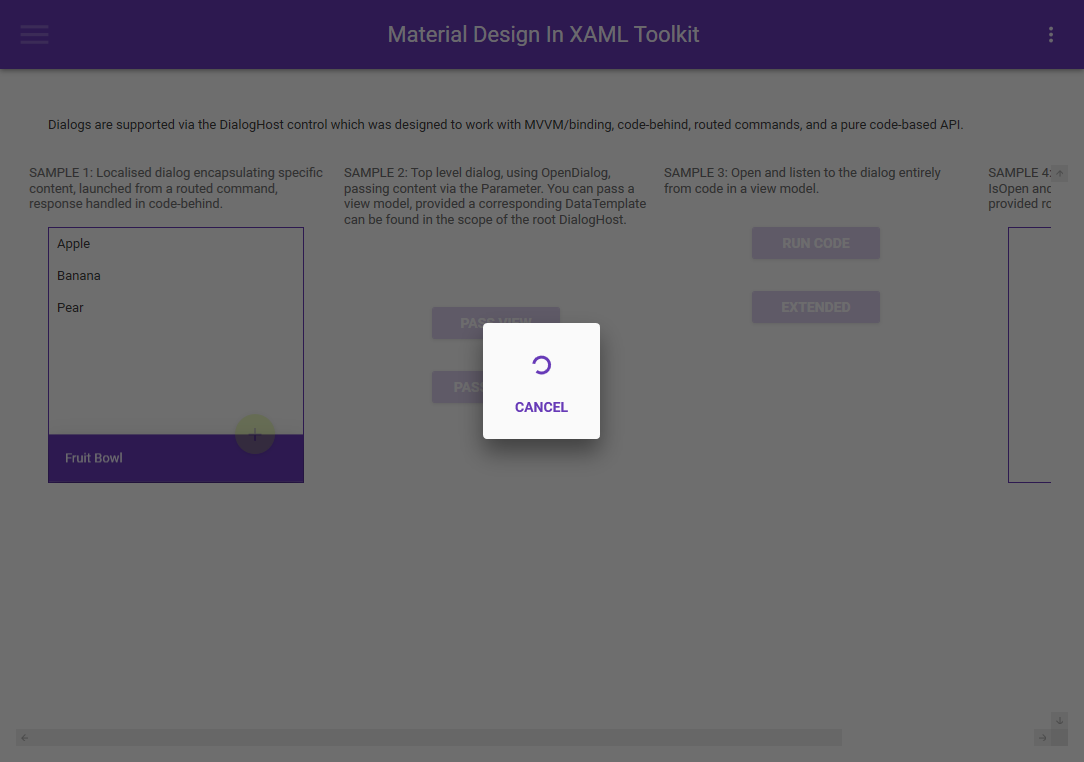
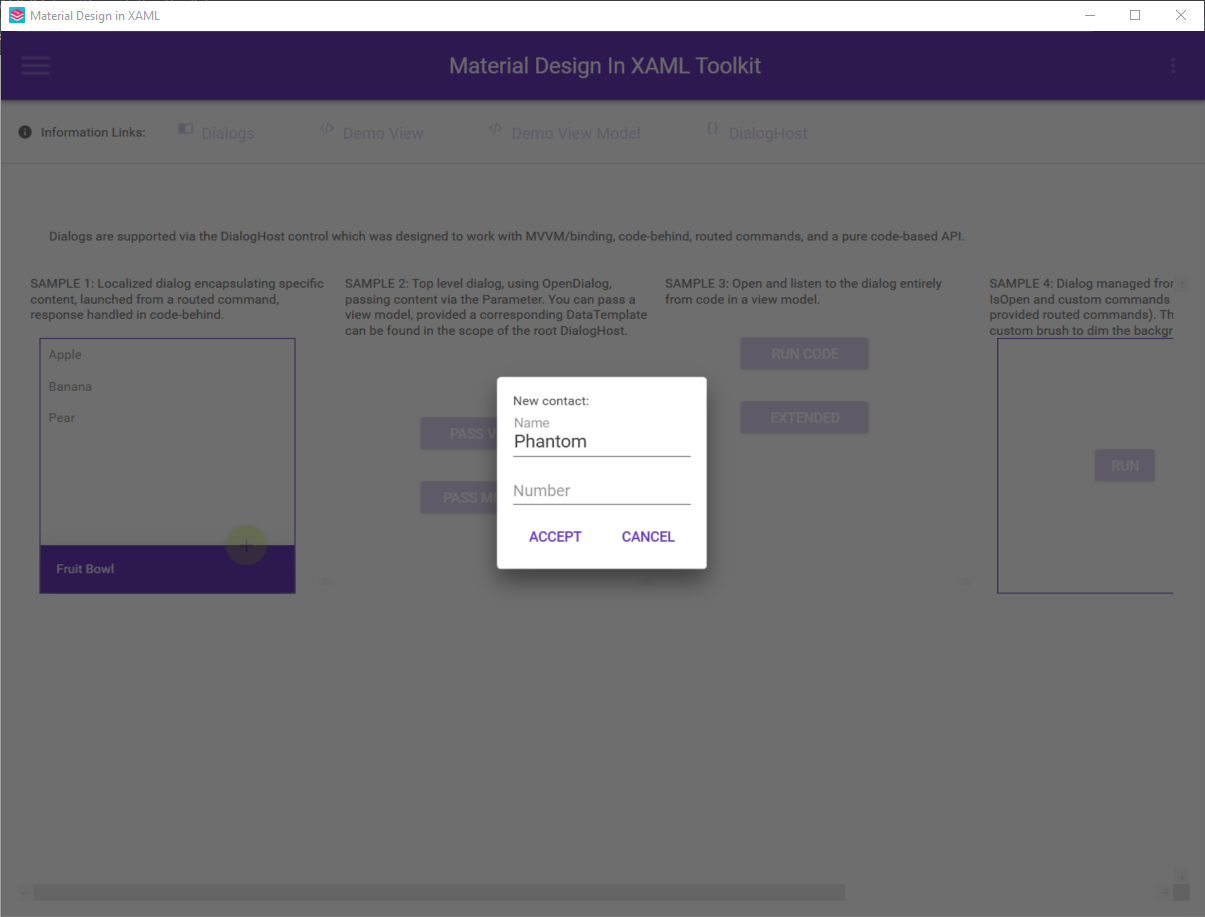
Update demo app screenshots (v3.0.0)

diff --git a/README.md b/README.md
@@ -8,69 +8,74 @@ Comprehensive and easy to use Material Design theme and control library for the 
 
 # ![Alt text](web/images/MD4XAML28.png "Summary") Summary
 
- * Material Design styles for all major WPF Framework controls
- * Additional controls to support the theme, including Multi Action Button, Cards, Dialogs, Clock
- * Easy configuration of palette (at design _and_ runtime), according to [Google's guidelines](https://material.io/design/)
- * Full [Material Design Icons](https://materialdesignicons.com/) icon pack
- * Easy transition effects
- * Compatible with [Dragablz](https://github.com/ButchersBoy/Dragablz), [MahApps](https://github.com/MahApps/MahApps.Metro)
- * Demo applications included in the source project
+- Material Design styles for all major WPF Framework controls
+- Additional controls to support the theme, including Multi Action Button, Cards, Dialogs, Clock
+- Easy configuration of palette (at design _and_ runtime), according to [Google's guidelines](https://material.io/design/)
+- Full [Material Design Icons](https://materialdesignicons.com/) icon pack
+- Easy transition effects
+- Compatible with [Dragablz](https://github.com/ButchersBoy/Dragablz), [MahApps](https://github.com/MahApps/MahApps.Metro)
+- Demo applications included in the source project
 
 [![Backers on Open Collective](https://opencollective.com/materialdesigninxaml/backers/badge.svg)](#backers) [![Sponsors on Open Collective](https://opencollective.com/materialdesigninxaml/sponsors/badge.svg)](#sponsors) [![Gitter](https://img.shields.io/badge/Gitter-Join%20Chat,%20Get%20Help,%20Say%20Hello!-green.svg?style=flat-square)](https://gitter.im/ButchersBoy/MaterialDesignInXamlToolkit)
 [![Build Status](https://dev.azure.com/MaterialDesignInXAML/MaterialDesignInXaml/_apis/build/status/MaterialDesignInXAML.MaterialDesignInXamlToolkit?branchName=master)](https://dev.azure.com/MaterialDesignInXAML/MaterialDesignInXaml/_build/latest?definitionId=2&branchName=master)
 [![NuGet-Themes](https://img.shields.io/nuget/v/MaterialDesignThemes.svg?label=NuGet:%20Themes&style=flat-square)](https://www.nuget.org/packages/MaterialDesignThemes/)
-[![NuGet-Themes](https://img.shields.io/nuget/vpre/MaterialDesignThemes.svg?label=NuGet:%20Themes%20(CI)&style=flat-square)](https://www.nuget.org/packages/MaterialDesignThemes/)
+[![NuGet-Themes](<https://img.shields.io/nuget/vpre/MaterialDesignThemes.svg?label=NuGet:%20Themes%20(CI)&style=flat-square>)](https://www.nuget.org/packages/MaterialDesignThemes/)
 [![NuGet-Themes](https://img.shields.io/nuget/vpre/MaterialDesignColors.svg?label=NuGet:%20Colours&style=flat-square)](https://www.nuget.org/packages/MaterialDesignColors/)
 [![Issues](https://img.shields.io/github/issues/MaterialDesignInXAML/MaterialDesignInXamlToolkit.svg?style=flat-square)](https://github.com/MaterialDesignInXAML/MaterialDesignInXamlToolkit/issues)
 [![Twitter](https://img.shields.io/badge/twitter-%40james__willock-55acee.svg?style=flat-square)](https://twitter.com/James_Willock)
- 
+
 # ![Alt text](web/images/MD4XAML28.png "How Can I Use The Themes?") Getting Started
 
-* Checkout the [Super Quick Start](https://github.com/MaterialDesignInXAML/MaterialDesignInXamlToolkit/wiki/Super-Quick-Start)
-* Or, the more comprehensive [Starting Guide](https://github.com/MaterialDesignInXAML/MaterialDesignInXamlToolkit/wiki/Getting-Started) guide.
-* Or, watch the [Material Design In XAML Toolkit An Introduction](https://www.youtube.com/watch?v=-n5yeEOsbCk) video.
+- Checkout the [Super Quick Start](https://github.com/MaterialDesignInXAML/MaterialDesignInXamlToolkit/wiki/Super-Quick-Start)
+- Or, the more comprehensive [Starting Guide](https://github.com/MaterialDesignInXAML/MaterialDesignInXamlToolkit/wiki/Getting-Started) guide.
+- Or, watch the [Material Design In XAML Toolkit An Introduction](https://www.youtube.com/watch?v=-n5yeEOsbCk) video.
 
 # ![Alt text](web/images/MD4XAML28.png "In Action") See It In Action
 
-* Download a pre-compiled demo from the [releases](https://github.com/ButchersBoy/MaterialDesignInXamlToolkit/releases) page.
-* Download the source and run the demo ([more information](https://github.com/MaterialDesignInXAML/MaterialDesignInXamlToolkit/wiki/Compiling-From-Source)).
-* Checkout [Keboo/MaterialDesign.Examples](https://github.com/Keboo/MaterialDesignInXaml.Examples)
-* Checkout [doobry](http://materialdesigninxaml.net/doobry).
-* Checkout [F1ix](http://materialdesigninxaml.net/f1ix).
-* Checkout [Motion List](https://github.com/MaterialDesignInXAML/MotionList).
+- Download a pre-compiled demo from the [releases](https://github.com/ButchersBoy/MaterialDesignInXamlToolkit/releases) page.
+- Download the source and run the demo ([more information](https://github.com/MaterialDesignInXAML/MaterialDesignInXamlToolkit/wiki/Compiling-From-Source)).
+- Checkout [Keboo/MaterialDesign.Examples](https://github.com/Keboo/MaterialDesignInXaml.Examples)
+- Checkout [doobry](http://materialdesigninxaml.net/doobry).
+- Checkout [F1ix](http://materialdesigninxaml.net/f1ix).
+- Checkout [Motion List](https://github.com/MaterialDesignInXAML/MotionList).
 
 # ![Alt text](web/images/MD4XAML28.png "How Can I Use The Themes?") Source Code
-To load the source project you will need Visual Studio 2019.  Don't worry if you have an earlier version, you can still use the compiled assemblies from NuGet (``` Install-Package MaterialDesignThemes ```). There are two demo projects in the solution, restore the necessary NuGet packages and correct the programming syntax that is not compatible with C# versions lower than C# 8.0 (```currently used in Visual Studio 2019```). Then, you should be able to fire both of these projects up.  One is a "pure" Material Design project, the other illustrates how to combine with Dragablz & MahApps.
+
+To load the source project you will need Visual Studio 2019. Don't worry if you have an earlier version, you can still use the compiled assemblies from NuGet (`Install-Package MaterialDesignThemes`). There are two demo projects in the solution, restore the necessary NuGet packages and correct the programming syntax that is not compatible with C# versions lower than C# 8.0 (`currently used in Visual Studio 2019`). Then, you should be able to fire both of these projects up. One is a "pure" Material Design project, the other illustrates how to combine with Dragablz & MahApps.
 
 # ![Alt text](web/images/MD4XAML28.png "Contributions") Contribution Guidelines
 
-* Before contributing code read the [Contribution Guidelines](.github/CONTRIBUTING.md)
-  * GitHub issues are for bugs.
-  * For queries, help, and general chat stop by the [Gitter chat room](https://gitter.im/ButchersBoy/MaterialDesignInXamlToolkit).
-  * Stack Overflow tag: [material-design-in-xaml](http://stackoverflow.com/questions/tagged/material-design-in-xaml)
-* Want to say thanks?
-  *  Hit the :star: Star :star: button
-  *  If you'd like to make a very much appreciated financial donation please visit <a href='https://opencollective.com/materialdesigninxaml'>open collective</a>
+- Before contributing code read the [Contribution Guidelines](.github/CONTRIBUTING.md)
+  - GitHub issues are for bugs.
+  - For queries, help, and general chat stop by the [Gitter chat room](https://gitter.im/ButchersBoy/MaterialDesignInXamlToolkit).
+  - Stack Overflow tag: [material-design-in-xaml](http://stackoverflow.com/questions/tagged/material-design-in-xaml)
+- Want to say thanks?
+  - Hit the :star: Star :star: button
+  - If you'd like to make a very much appreciated financial donation please visit <a href='https://opencollective.com/materialdesigninxaml'>open collective</a>
 
 # ![Alt text](web/images/MD4XAML28.png "Mentions") Mentions
 
-* Logo courtesy of GitHub user [Snalty](https://github.com/snalty), and you can see more of him;
- * on his [blog](http://holothere.tumblr.com/)
- * and on [Twitter](https://twitter.com/snalty)
-* Marc Angers - I pulled some of his shadows straight in from this [blog post](http://marcangers.com/material-design-shadows-in-wpf/)
-* Icon pack sourced from [Material Design Icons](https://materialdesignicons.com/)
-* Utilises [ControlzEx](https://github.com/ControlzEx/ControlzEx)
-* Ignace Maes, whose [Material Skin](https://github.com/IgnaceMaes/MaterialSkin) project inspired the original material design theme for [Dragablz](https://github.com/ButchersBoy/Dragablz), which in turn led to me starting this project
-* [Material Design Extensions](https://github.com/spiegelp/MaterialDesignExtensions) is a community repository based on this library that provides additional controls and features.
-* **[Contributors!](https://github.com/ButchersBoy/MaterialDesignInXamlToolkit/graphs/contributors)**  Thanks for the PRs which have helped add some extra polish.  
+- Logo courtesy of GitHub user [Snalty](https://github.com/snalty), and you can see more of him;
+- on his [blog](http://holothere.tumblr.com/)
+- and on [Twitter](https://twitter.com/snalty)
+- Marc Angers - I pulled some of his shadows straight in from this [blog post](http://marcangers.com/material-design-shadows-in-wpf/)
+- Icon pack sourced from [Material Design Icons](https://materialdesignicons.com/)
+- Utilises [ControlzEx](https://github.com/ControlzEx/ControlzEx)
+- Ignace Maes, whose [Material Skin](https://github.com/IgnaceMaes/MaterialSkin) project inspired the original material design theme for [Dragablz](https://github.com/ButchersBoy/Dragablz), which in turn led to me starting this project
+- [Material Design Extensions](https://github.com/spiegelp/MaterialDesignExtensions) is a community repository based on this library that provides additional controls and features.
+- **[Contributors!](https://github.com/ButchersBoy/MaterialDesignInXamlToolkit/graphs/contributors)** Thanks for the PRs which have helped add some extra polish.
 
 # <a name="Screenshots"></a>![Alt text](web/images/MD4XAML28.png "Screenshots") Screenshots
 
 ![Alt text](web/images/screen-buttons.png "Buttons")
 
+![Alt text](web/images/screen-toggles.png "Toggles")
+
 ![Alt text](web/images/screen-fields.png "Fields")
 
 ![Alt text](web/images/screen-palette.png "Palette")
+
+![Alt text](web/images/screen-colortools.png "Color Tools")
 
 ![Alt text](web/images/screen-pickers.png "Pickers")
 
@@ -98,16 +103,14 @@ To load the source project you will need Visual Studio 2019.  Don't worry if you
 
 ## Contributors
 
-This project exists thanks to all the people who contribute. 
+This project exists thanks to all the people who contribute.
 <a href="https://github.com/MaterialDesignInXAML/MaterialDesignInXamlToolkit/graphs/contributors"><img src="https://opencollective.com/materialdesigninxaml/contributors.svg?width=890&button=false" /></a>
-
 
 ## Backers
 
 Thank you to all our backers! 🙏 [[Become a backer](https://opencollective.com/materialdesigninxaml#backer)]
 
 <a href="https://opencollective.com/materialdesigninxaml#backers" target="_blank"><img src="https://opencollective.com/materialdesigninxaml/backers.svg?width=890"></a>
-
 
 ## Sponsors
 
@@ -123,5 +126,3 @@ Support this project by becoming a sponsor. Your logo will show up here with a l
 <a href="https://opencollective.com/materialdesigninxaml/sponsor/7/website" target="_blank"><img src="https://opencollective.com/materialdesigninxaml/sponsor/7/avatar.svg"></a>
 <a href="https://opencollective.com/materialdesigninxaml/sponsor/8/website" target="_blank"><img src="https://opencollective.com/materialdesigninxaml/sponsor/8/avatar.svg"></a>
 <a href="https://opencollective.com/materialdesigninxaml/sponsor/9/website" target="_blank"><img src="https://opencollective.com/materialdesigninxaml/sponsor/9/avatar.svg"></a>
-
-
